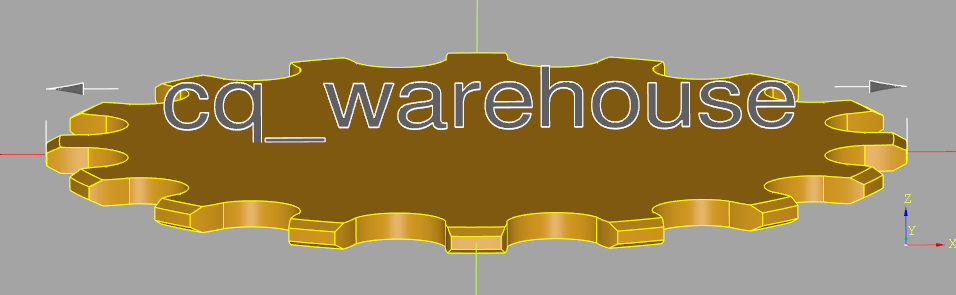
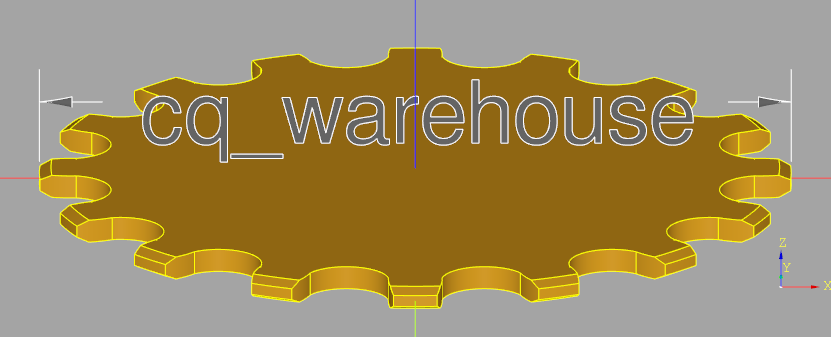
Improved support for negative offset

Changed region(s): [[0.0, 0.122, 1.0, 0.9458], [0.9326, 0.7017, 1.0, 0.8847], [0.0602, 0.2746, 0.1203, 0.3051]]

diff --git a/src/cq_warehouse/drafting.py b/src/cq_warehouse/drafting.py
@@ -30,9 +30,9 @@ license:
 from math import floor, log2, gcd, pi
 from typing import Union, Tuple, Literal, Optional, ClassVar, Any
 
-# pylint: disable=no-name-in-module
+"""# pylint: disable=no-name-in-module"""
 from pydantic import BaseModel, PrivateAttr, validator, validate_arguments
-from numpy import arange
+from numpy import arange, sign
 import cadquery as cq
 import cq_warehouse.extensions
 
@@ -545,9 +545,10 @@ class Draft(BaseModel):
             # Create radial extension lines
             ext_line = [
                 cq.Edge.makeLine(
-                    object_path.positionAt(i) + radial_directions[i * 2] * 1.5 * MM,
                     object_path.positionAt(i)
-                    + radial_directions[i * 2] * (offset + 3.0 * MM),
+                    + radial_directions[i * 2] * sign(offset) * 1.5 * MM,
+                    object_path.positionAt(i)
+                    + radial_directions[i * 2] * (offset + sign(offset) * 3.0 * MM),
                 )
                 for i in range(2)
             ]
@@ -561,8 +562,8 @@ class Draft(BaseModel):
             ext_line = [
                 (
                     cq.Workplane(dimension_plane)
-                    .moveTo(1.5 * MM, l)
-                    .lineTo(offset + 3 * MM, l)
+                    .moveTo(sign(offset) * 1.5 * MM, l)
+                    .lineTo(offset + sign(offset) * 3 * MM, l)
                 )
                 for l in [0, object_length]
             ]

diff --git a/doc/cq_title_image.py b/doc/cq_title_image.py
@@ -3,15 +3,29 @@ from cq_warehouse.sprocket import Sprocket
 from cq_warehouse.drafting import Draft
 
 spkt = Sprocket(num_teeth=16)
-title_draft = Draft(font_size=8, label_normal=(0, -1, 1))
+title_draft = Draft(font_size=8, label_normal=(0, -3, 1))
 title_line = title_draft.extension_line(
-    object_edge=[
-        (-spkt.outer_radius, 0, spkt.thickness / 2),
-        (+spkt.outer_radius, 0, spkt.thickness / 2),
-    ],
-    offset=-5,
+    object_edge=[(-spkt.outer_radius, 0, 0), (+spkt.outer_radius, 0, 0),],
+    offset=-7,
     label="cq_warehouse",
 )
+svg_collection = cq.Assembly(None, name="collection")
+svg_collection.add(spkt.cq_object)
+svg_collection.add(title_line)
+cq.exporters.export(
+    svg_collection.toCompound(),
+    fname="cq_title_image.svg",
+    opt={
+        "width": 200,
+        "height": 500,
+        "marginLeft": 35,
+        "marginTop": 60,
+        "projectionDir": (0, -3, 1),
+        "showAxes": True,
+        "strokeWidth": 0.1,
+    },
+)
+
 if "show_object" in locals():
     show_object(spkt.cq_object, name="sprocket12")
     show_object(title_line, name="title_line")
